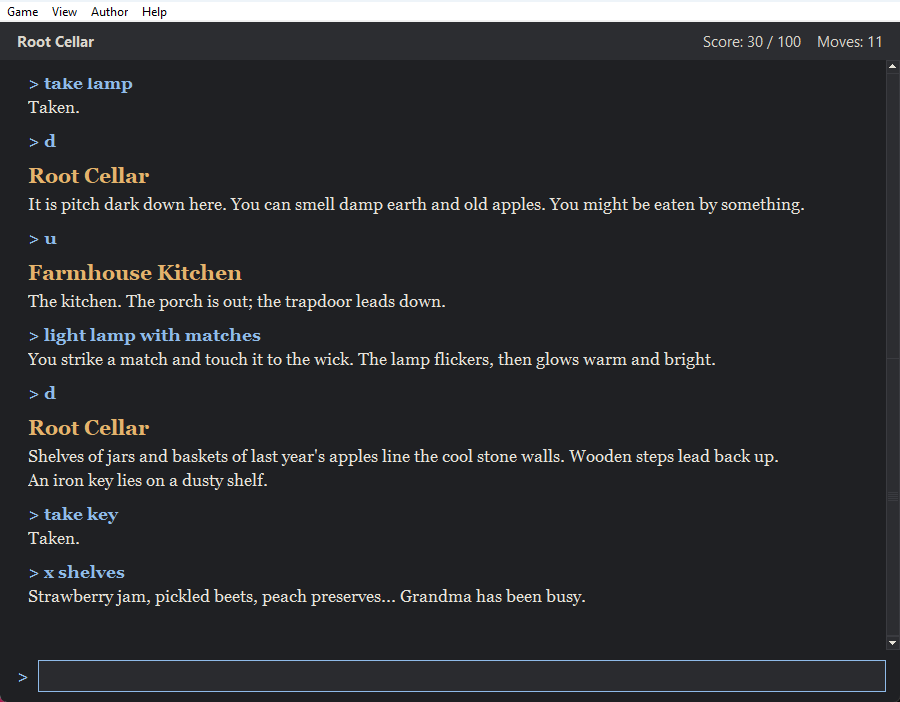
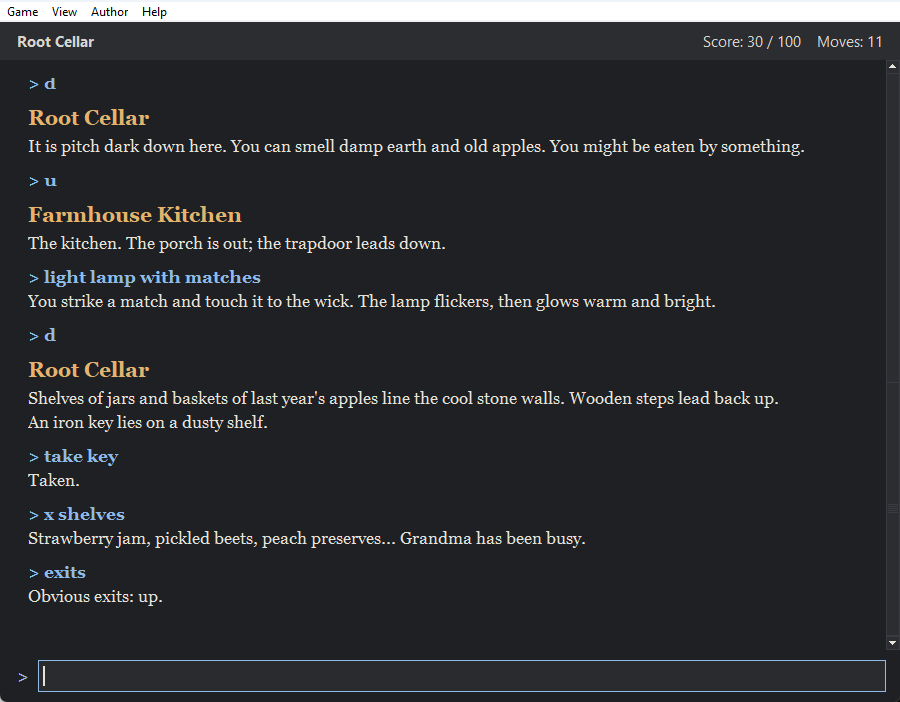
Updated screenprints

Changed region(s): [[0.0311, 0.0897, 0.9022, 0.7778], [0.0311, 0.8077, 0.6533, 0.8675]]

diff --git a/README.md b/README.md
@@ -84,6 +84,8 @@ python3 adventure.py
 2. Click **Play**.
 3. If you've saved games in this adventure before, you'll see them on the next screen. Pick one and click **Continue** to carry on where you left off, or click **New Adventure** to start from the beginning.
 
+![The saved-game screen](docs/images/saved-games.png)
+
 Read the story, then type what you'd like to do in the box at the bottom and press **Enter**.
 
 | To... | Type something like... |
